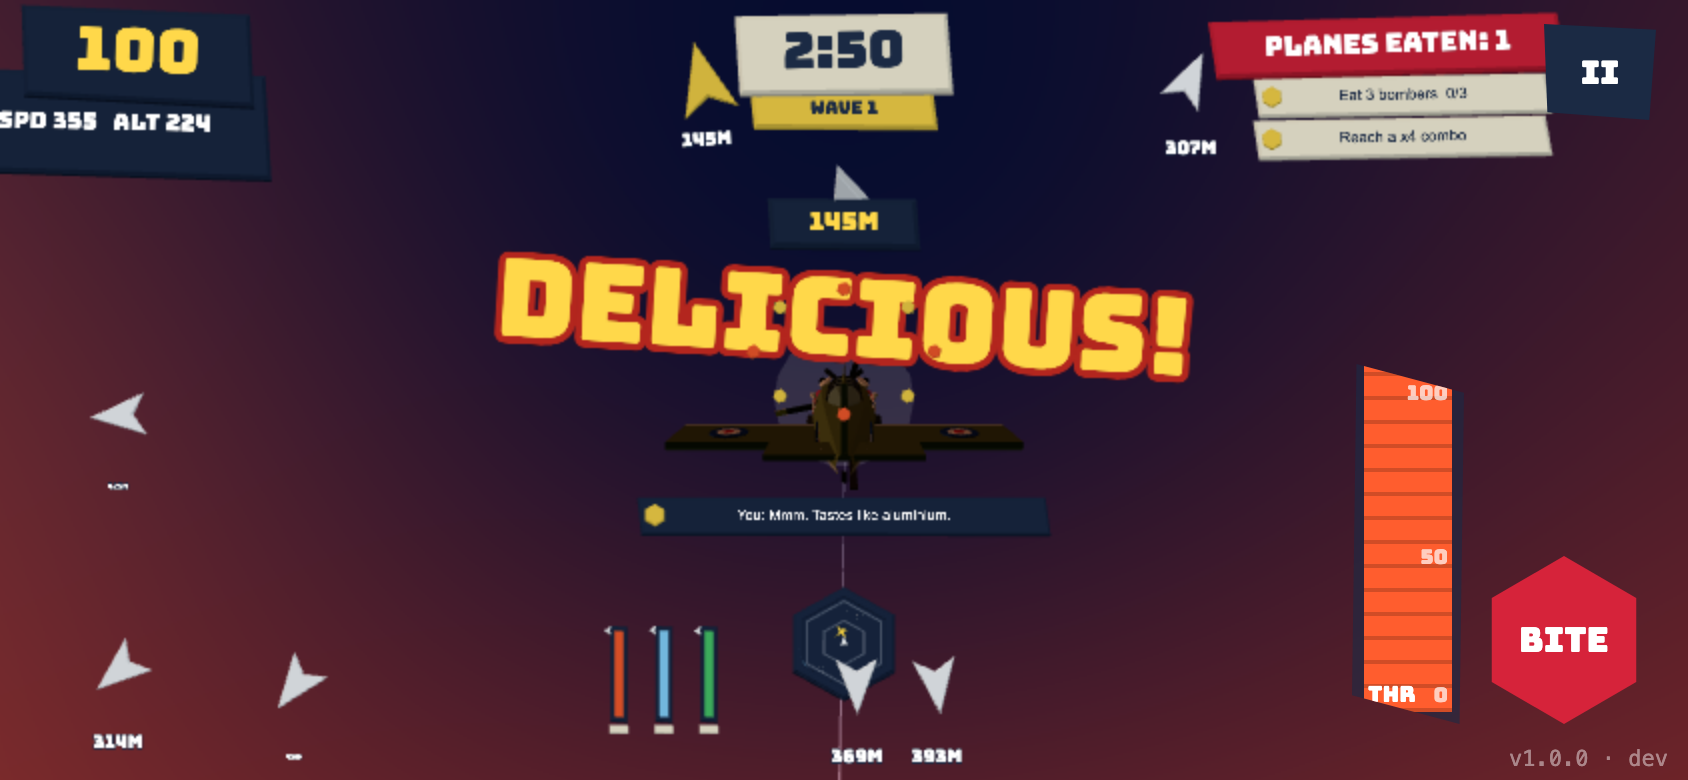
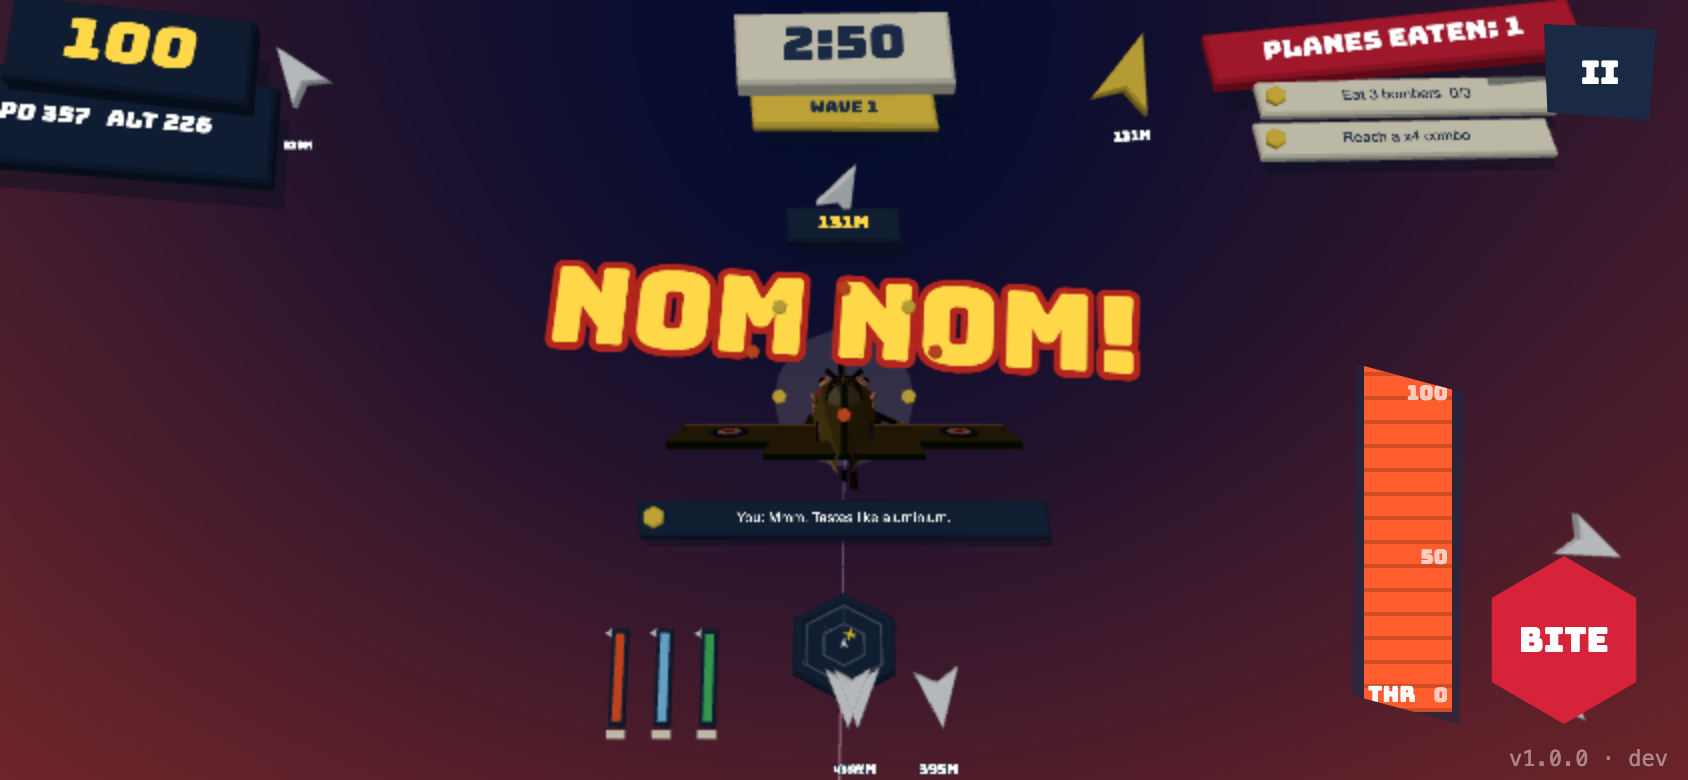
fix: sun glare white-out under bloom, lock hysteresis for stable target distance; HUD gets perspective depth, drop shadows and cockpit inertia

diff --git a/lib/ui/hud3d.ts b/lib/ui/hud3d.ts
@@ -9,7 +9,7 @@ import type { Hud, Options } from "../store";
  */
 
 type Anchor = "tl" | "tc" | "tr" | "bl" | "bc" | "br";
-const TILT = -0.18; // every plate lies back a little toward the camera
+const TILT = -0.34; // every plate lies back toward the camera so the bevels and side faces read
 
 class Plate extends THREE.Group {
   body: THREE.Mesh;
@@ -19,6 +19,9 @@ class Plate extends THREE.Group {
     super();
     this.body = new THREE.Mesh(slab(w, h, depth, skew), mat(color));
     this.add(this.body);
+    // drop shadow slab under the plate
+    const shadow = new THREE.Mesh(slab(w, h, 1, skew, 0), mat("inkDark", { opacity: 0.45 }));
+    shadow.position.set(6, -8, -depth - 4); this.add(shadow);
     if (text) { this.label = new Label({ ...text, align: "center" }); this.label.position.z = depth + 3; this.add(this.label); }
     this.rotation.x = TILT;
   }
@@ -31,7 +34,8 @@ type Contact = { mesh: THREE.Mesh; pin: THREE.Mesh };
 
 export class Hud3D {
   scene = new THREE.Scene();
-  camera = new THREE.OrthographicCamera(-1, 1, 1, -1, -500, 500);
+  camera = new THREE.PerspectiveCamera(28, 1, 10, 4000);
+  root = new THREE.Group();
   private w = 1; private h = 1; private ui = 1; // ui scale
   private coarse = false;
   private safe = { t: 0, r: 0, b: 0, l: 0 };
@@ -56,16 +60,16 @@ export class Hud3D {
 
   constructor() {
     resolveFont();
-    const key = new THREE.DirectionalLight(0xffffff, 1.6); key.position.set(-0.6, 1, 1.4); this.scene.add(key);
-    const fill = new THREE.DirectionalLight(0xbfe3ff, 0.5); fill.position.set(0.8, -0.4, 1); this.scene.add(fill);
-    this.scene.add(new THREE.AmbientLight(0xffffff, 0.55));
-    this.camera.position.z = 300;
+    const key = new THREE.DirectionalLight(0xffffff, 1.15); key.position.set(-0.6, 1, 1.4); this.scene.add(key);
+    const fill = new THREE.DirectionalLight(0xbfe3ff, 0.35); fill.position.set(0.8, -0.4, 1); this.scene.add(fill);
+    this.scene.add(new THREE.AmbientLight(0xffffff, 0.42));
+    this.scene.add(this.root);
 
-    this.score = new Plate(150, 58, "ink", { size: 40, color: "#ffd84a" }, 10, 0.08); this.scene.add(this.score);
-    this.eaten = new Plate(230, 34, "red", { size: 18, color: "#fff" }, 7); this.scene.add(this.eaten);
-    this.timer = new Plate(140, 50, "cream", { size: 34, color: "#1b2a44" }, 9, 0.05); this.scene.add(this.timer);
-    this.wave = new Plate(120, 22, "yellow", { size: 12, color: "#1b2a44" }, 5); this.scene.add(this.wave);
-    this.stats = new Plate(210, 64, "ink", { size: 15, color: "#fff" }, 7); this.scene.add(this.stats);
+    this.score = new Plate(150, 58, "ink", { size: 40, color: "#ffd84a" }, 14, 0.08); this.score.rotation.y = 0.14; this.root.add(this.score);
+    this.eaten = new Plate(230, 34, "red", { size: 18, color: "#fff" }, 10); this.eaten.rotation.y = -0.14; this.root.add(this.eaten);
+    this.timer = new Plate(140, 50, "cream", { size: 34, color: "#1b2a44" }, 14, 0.05); this.root.add(this.timer);
+    this.wave = new Plate(120, 22, "yellow", { size: 12, color: "#1b2a44" }, 5); this.root.add(this.wave);
+    this.stats = new Plate(210, 64, "ink", { size: 15, color: "#fff" }, 10); this.stats.rotation.y = 0.12; this.root.add(this.stats);
 
     // combo ring: 10 segments
     for (let i = 0; i < 10; i++) {
@@ -74,7 +78,7 @@ export class Hud3D {
     }
     const comboCore = new THREE.Mesh(hexPuck(20, 6, 2), mat("ink")); this.comboGroup.add(comboCore);
     this.comboChip = new Label({ size: 16, color: "#ffd84a", stroke: "#1b2a44" }); this.comboChip.position.z = 12; this.comboGroup.add(this.comboChip);
-    this.comboGroup.rotation.x = TILT; this.scene.add(this.comboGroup);
+    this.comboGroup.rotation.x = TILT; this.root.add(this.comboGroup);
 
     // radar puck
     const base = new THREE.Mesh(hexPuck(100, 10, 4), mat("ink")); this.radar.add(base);
@@ -89,7 +93,7 @@ export class Hud3D {
       const m = new THREE.Mesh(silhouette("fighter", 7), mat("yellow")); m.visible = false;
       this.radar.add(pin, m); this.contacts.push({ mesh: m, pin });
     }
-    this.radar.rotation.x = TILT * 1.6; this.scene.add(this.radar);
+    this.radar.rotation.x = -0.62; this.root.add(this.radar);
 
     // gauges
     for (const [name, color] of [["THR", "orange"], ["BST", "sky"], ["FOOD", "green"]] as const) {
@@ -99,14 +103,14 @@ export class Hud3D {
       const needle = new THREE.Mesh(dart(14, 10, 3), mat("white")); needle.rotation.z = Math.PI / 2; needle.position.set(-20, 0, 10); g.add(needle);
       const label = new Label({ size: 9, color: "#1b2a44" }); label.position.set(0, -100, 12); g.add(label); label.set(name);
       const tag = new THREE.Mesh(slab(32, 14, 4, 0.05, 1), mat("cream")); tag.position.set(0, -100, 8); g.add(tag);
-      g.rotation.x = TILT; this.scene.add(g);
+      g.rotation.x = TILT; this.root.add(g);
       this.gauges.push({ group: g, fill, needle, label, value: new Spring(0) });
     }
 
     // compass
     this.compassArrow = new THREE.Mesh(dart(30, 42, 12), mat("white")); this.compass.add(this.compassArrow);
     this.lockChip = new Plate(74, 22, "ink", { size: 13, color: "#ffd84a" }, 5); this.lockChip.position.y = -38; this.compass.add(this.lockChip);
-    this.scene.add(this.compass);
+    this.root.add(this.compass);
 
     // target markers pool
     for (let i = 0; i < 16; i++) {
@@ -114,7 +118,7 @@ export class Hud3D {
       for (let c = 0; c < 4; c++) { const m = new THREE.Mesh(corner(14, 4, 4), mat("white")); m.rotation.z = (-c * Math.PI) / 2; corners.push(m); g.add(m); }
       const d = new THREE.Mesh(dart(26, 34, 8), mat("white")); d.visible = false; g.add(d);
       const label = new Label({ size: 12, color: "#fff", stroke: "#1b2a44" }); label.position.y = -36; g.add(label);
-      g.visible = false; this.scene.add(g);
+      g.visible = false; this.root.add(g);
       this.markers.push({ group: g, corners, dart: d, label, lockScale: new Spring(1) });
     }
 
@@ -122,31 +126,34 @@ export class Hud3D {
     for (let i = 0; i < 2; i++) {
       const plate = new Plate(250, 30, "cream", { size: 13, color: "#1b2a44", font: "body" }, 6, 0.05);
       const check = new THREE.Mesh(hexPuck(8, 4, 1), mat("yellow")); check.position.set(-112, 0, 8); plate.add(check);
-      this.scene.add(plate); this.objectives.push({ plate, check, flip: new Spring(0) });
+      this.root.add(plate); this.objectives.push({ plate, check, flip: new Spring(0) });
     }
 
     // boss girder
     const girder = new THREE.Mesh(slab(260, 22, 8, 0.02, 2), mat("ink")); this.boss.add(girder);
     this.bossFill = new THREE.Mesh(new THREE.BoxGeometry(1, 12, 4), mat("orange")); this.bossFill.position.z = 9; this.boss.add(this.bossFill);
     this.bossLabel = new Label({ size: 12, color: "#ff5d2e", stroke: "#1b2a44" }); this.bossLabel.position.set(0, 22, 12); this.boss.add(this.bossLabel); this.bossLabel.set("ZEPPELIN");
-    this.boss.rotation.x = TILT; this.boss.visible = false; this.scene.add(this.boss);
+    this.boss.rotation.x = TILT; this.boss.visible = false; this.root.add(this.boss);
 
     // messages
-    this.msg = new Plate(10, 10, "yellow", { size: 64, color: "#ffd84a", stroke: "#b3261e" }, 0); this.msg.body.visible = false; this.scene.add(this.msg);
-    for (let i = 0; i < 8; i++) { const b = new THREE.Mesh(hexPuck(6, 4, 1), mat(i % 2 ? "yellow" : "orange")); b.visible = false; this.scene.add(b); this.msgBits.push(b); }
-    this.banner = new Plate(360, 64, "blue", { size: 44, color: "#fff" }, 14, 0.04); this.scene.add(this.banner);
-    this.countdown = new Label({ size: 150, color: "#ffd84a", stroke: "#b3261e" }); this.scene.add(this.countdown);
-    this.subtitle = new Plate(520, 44, "ink", { size: 18, color: "#fff", font: "body" }, 8, 0.03); this.scene.add(this.subtitle);
+    this.msg = new Plate(10, 10, "yellow", { size: 64, color: "#ffd84a", stroke: "#b3261e" }, 0); this.msg.body.visible = false; this.root.add(this.msg);
+    for (let i = 0; i < 8; i++) { const b = new THREE.Mesh(hexPuck(6, 4, 1), mat(i % 2 ? "yellow" : "orange")); b.visible = false; this.root.add(b); this.msgBits.push(b); }
+    this.banner = new Plate(360, 64, "blue", { size: 44, color: "#fff" }, 14, 0.04); this.root.add(this.banner);
+    this.countdown = new Label({ size: 150, color: "#ffd84a", stroke: "#b3261e" }); this.root.add(this.countdown);
+    this.subtitle = new Plate(520, 44, "ink", { size: 18, color: "#fff", font: "body" }, 8, 0.03); this.root.add(this.subtitle);
     this.subtitleWho = new THREE.Mesh(hexPuck(12, 6, 2), mat("yellow")); this.subtitleWho.position.set(-240, 0, 12); this.subtitle.add(this.subtitleWho);
-    this.caption = new Plate(300, 26, "inkDark", { size: 13, color: "#ffd84a", font: "body" }, 5, 0.03); this.scene.add(this.caption);
-    this.toast = new Plate(420, 34, "ink", { size: 14, color: "#ffd84a", font: "body" }, 7, 0.03); this.scene.add(this.toast);
-    this.muted = new Plate(250, 30, "orange", { size: 13, color: "#fff", font: "body" }, 6); this.scene.add(this.muted);
+    this.caption = new Plate(300, 26, "inkDark", { size: 13, color: "#ffd84a", font: "body" }, 5, 0.03); this.root.add(this.caption);
+    this.toast = new Plate(420, 34, "ink", { size: 14, color: "#ffd84a", font: "body" }, 7, 0.03); this.root.add(this.toast);
+    this.muted = new Plate(250, 30, "orange", { size: 13, color: "#fff", font: "body" }, 6); this.root.add(this.muted);
   }
 
   resize(w: number, h: number, coarse: boolean, safe: { t: number; r: number; b: number; l: number }) {
     this.w = w; this.h = h; this.coarse = coarse; this.safe = safe;
     this.ui = coarse ? Math.max(0.55, Math.min(0.8, h / 520)) : Math.max(0.75, Math.min(1.15, h / 800));
-    this.camera.left = -w / 2; this.camera.right = w / 2; this.camera.top = h / 2; this.camera.bottom = -h / 2;
+    // perspective camera placed so that z=0 maps 1:1 to CSS pixels — tilted plates then show real depth
+    this.camera.aspect = w / h;
+    this.camera.position.z = (h / 2) / Math.tan(THREE.MathUtils.degToRad(this.camera.fov / 2));
+    this.camera.far = this.camera.position.z + 2000; this.camera.near = 10;
     this.camera.updateProjectionMatrix();
   }
 
@@ -165,8 +172,14 @@ export class Hud3D {
 
   setShake(x: number, y: number) { this.shake.set(x, y); }
 
+  private lean = new Spring(0, 0, 60, 10); private lag = new Spring(0, 0, 90, 12);
   update(hud: Hud, o: Options, dt: number) {
     this.t += dt;
+    // cockpit inertia: the whole HUD leans with bank and sags under g
+    const motion = o.reducedMotion ? 0 : 1;
+    this.lean.target = -hud.bank * 0.05 * motion; this.lag.target = -hud.gForce * 10 * motion;
+    this.root.rotation.z = this.lean.update(dt); this.root.position.y = this.lag.update(dt);
+    this.root.rotation.y = -hud.bank * 0.03 * motion;
     const s = this.ui, bob = (i: number) => Math.sin(this.t * 1.3 + i) * 0.6 * (o.reducedMotion ? 0 : 1);
     const mm = Math.floor(hud.timeLeft / 60), ss = String(hud.timeLeft % 60).padStart(2, "0");
 
@@ -214,7 +227,7 @@ export class Hud3D {
 
     // radar (bottom-right beside gauges; bottom-centre on phones)
     if (this.coarse) { this.at("bc", 0, 90, this.radar); this.radar.scale.multiplyScalar(s * 0.5); } else { this.at("br", 230, 125, this.radar); this.radar.scale.multiplyScalar(s); }
-    this.radarRoll.target = hud.bank * 0.06; this.radar.rotation.y = this.radarRoll.update(dt) * (o.reducedMotion ? 0 : 1);
+    this.radarRoll.target = hud.bank * 0.12; this.radar.rotation.y = this.radarRoll.update(dt) * (o.reducedMotion ? 0 : 1);
     this.sweep.rotation.z = -this.t * 2.6;
     hud.radar.forEach((b, i) => {
       const c = this.contacts[i]; if (!c) return;

diff --git a/lib/engine.ts b/lib/engine.ts
@@ -121,6 +121,8 @@ export class Engine {
   private dustAcc = 0; private streakAcc = 0; private heartAcc = 0;
   private camQ = new THREE.Quaternion(); private titleAngle = 0;
   private frameEma = 0.016; private slowFor = 0; private autoDropped = 0;
+  private lockRef: object | null = null;
+  private gForce = 0; private lastVel = new THREE.Vector3();
   private tier: Tier = "high";
   private tiltInput: Tilt | null = null;
   private toastTimer = 0;
@@ -688,6 +690,10 @@ export class Engine {
       }
     }
 
+    // felt acceleration for HUD inertia
+    const vel = FWD.clone().applyQuaternion(p.q).multiplyScalar(p.speed);
+    this.gForce = THREE.MathUtils.lerp(this.gForce, Math.min(2, vel.distanceTo(this.lastVel) / Math.max(dt, 1e-3) / 60), 0.2);
+    this.lastVel.copy(vel);
     // visuals: gear, prop disc, gulp bulge, trails, speed streaks
     p.mesh.position.copy(p.pos); p.mesh.quaternion.copy(p.q);
     this.model.prop.rotation.z += (2 + p.speed * 0.6) * dt;
@@ -880,18 +886,21 @@ export class Engine {
     const f = FWD.clone().applyQuaternion(p.q);
     const fh = f.clone().setY(0).normalize(), rh = new THREE.Vector3(-fh.z, 0, fh.x);
     const radar: RadarBlip[] = [], alerts: Alert[] = [], targets: Target[] = [];
-    type Contact = { pos: THREE.Vector3; fwd: THREE.Vector3; kind: EnemyKind | "boss"; alert: boolean; hurt: boolean };
-    const contacts: Contact[] = this.enemies.map((e) => ({ pos: e.pos, fwd: FWD.clone().applyQuaternion(e.q), kind: e.kind, alert: e.alertTimer > 0, hurt: e.hp < KINDS[e.kind].hp }));
-    if (this.boss) contacts.push({ pos: this.boss.pos, fwd: FWD.clone().applyQuaternion(this.boss.q), kind: "boss", alert: false, hurt: false });
-    let lock: Contact | null = null, lockScore = Infinity, nearest: Contact | null = null, nearestD = Infinity;
+    type Contact = { ref: object; pos: THREE.Vector3; fwd: THREE.Vector3; kind: EnemyKind | "boss"; alert: boolean; hurt: boolean };
+    const contacts: Contact[] = this.enemies.map((e) => ({ ref: e, pos: e.pos, fwd: FWD.clone().applyQuaternion(e.q), kind: e.kind, alert: e.alertTimer > 0, hurt: e.hp < KINDS[e.kind].hp }));
+    if (this.boss) contacts.push({ ref: this.boss, pos: this.boss.pos, fwd: FWD.clone().applyQuaternion(this.boss.q), kind: "boss", alert: false, hurt: false });
+    let lock: Contact | null = null, lockScore = Infinity, nearest: Contact | null = null, nearestD = Infinity, current: Contact | null = null, currentScore = Infinity;
+    const scoreOf = (c: Contact) => { const rel = c.pos.clone().sub(p.pos); const d = rel.length(); const ahead = f.dot(rel.clone().normalize()); return { d, sc: ahead > 0.5 && d < 300 ? d : d + 10000 }; };
     for (const c of contacts) {
-      const rel = c.pos.clone().sub(p.pos); const d = rel.length();
-      const ahead = f.dot(rel.clone().normalize());
+      const { d, sc } = scoreOf(c);
       if (d < nearestD) { nearestD = d; nearest = c; }
-      const sc = ahead > 0.5 && d < 300 ? d : d + 10000;
       if (sc < lockScore) { lockScore = sc; lock = c; }
+      if (c.ref === this.lockRef) { current = c; currentScore = sc; }
     }
     if (!lock) lock = nearest;
+    // hysteresis: keep the current lock unless the best candidate is clearly better (20 %) or the current one fell out of the cone
+    if (current && lock !== current && currentScore < 10000 && lockScore > currentScore * 0.8) { lock = current; lockScore = currentScore; }
+    this.lockRef = lock ? lock.ref : null;
     const camInv = this.camera.quaternion.clone().invert();
     for (const c of contacts) {
       const rel = c.pos.clone().sub(p.pos); const d = rel.length();
@@ -926,7 +935,7 @@ export class Engine {
       score: this.score, combo: this.combo, eaten: this.eaten,
       speed: Math.round(p.speed * 5), alt: Math.round(p.pos.y - groundHeight(p.pos.x, p.pos.z)),
       throttle: p.throttle, boost: this.boostMeter, boosting: this.boosting, groundState: p.state,
-      compassAngle, compassNear: lockScore < 80, lockPitch, bank,
+      compassAngle, compassNear: lockScore < 80, lockPitch, bank, gForce: this.gForce,
       msg: this.msg, msgVisible: this.msgTimer > 0,
       timeLeft: Math.ceil(this.timeLeft), wave: this.wave, waveBanner: this.waveBannerTimer > 0 ? this.waveBanner : "",
       countdown: this.countdownShown, hunger: this.hunger, frenzy: Math.max(0, this.frenzy),

diff --git a/lib/store.ts b/lib/store.ts
@@ -56,6 +56,7 @@ export type Hud = {
   compassNear: boolean;
   lockPitch: number; // radians, + = above you
   bank: number; // -1..1
+  gForce: number; // felt acceleration 0..2, for HUD inertia
   msg: string;
   msgVisible: boolean;
   timeLeft: number;
@@ -148,7 +149,7 @@ function save(key: string, value: unknown) {
 
 export const emptyHud: Hud = {
   score: 0, combo: 0, eaten: 0, speed: 0, alt: 0, throttle: 0, boost: 1, boosting: false,
-  groundState: "rolling", compassAngle: 0, compassNear: false, lockPitch: 0, bank: 0, msg: "", msgVisible: false,
+  groundState: "rolling", compassAngle: 0, compassNear: false, lockPitch: 0, bank: 0, gForce: 0, msg: "", msgVisible: false,
   timeLeft: 180, wave: 1, waveBanner: "", countdown: "", hunger: 1, frenzy: 0, objectives: [], boss: null, timeOfDay: "noon", intro: null, subtitle: null, caption: "", weather: "clear", resumeIn: 0, muted: true, rolling: true, tier: "high", toast: "",
   radar: [], alerts: [], targets: [], lockDist: null,
 };

diff --git a/lib/post.ts b/lib/post.ts
@@ -31,7 +31,7 @@ export class Post {
   constructor(private renderer: THREE.WebGLRenderer, scene: THREE.Scene, camera: THREE.Camera) {
     this.composer = new EffectComposer(renderer);
     this.composer.addPass(new RenderPass(scene, camera));
-    this.bloom = new UnrealBloomPass(new THREE.Vector2(innerWidth, innerHeight), 0.35, 0.5, 0.82);
+    this.bloom = new UnrealBloomPass(new THREE.Vector2(innerWidth, innerHeight), 0.28, 0.45, 0.92);
     this.composer.addPass(this.bloom);
     this.vignette = new ShaderPass(VignetteShader);
     this.composer.addPass(this.vignette);

diff --git a/lib/sky.ts b/lib/sky.ts
@@ -27,7 +27,7 @@ const skyFrag = `
     float h = clamp(d.y, 0.0, 1.0);
     vec3 col = mix(horizon, top, pow(h, 0.55));
     float s = max(dot(d, normalize(sunDir)), 0.0);
-    col += sunColor * (pow(s, 220.0) * 1.6 + pow(s, 8.0) * 0.18);
+    col += sunColor * (pow(s, 600.0) * 0.9 + pow(s, 12.0) * 0.08);
     gl_FragColor = vec4(col, 1.0);
   }
 `;
